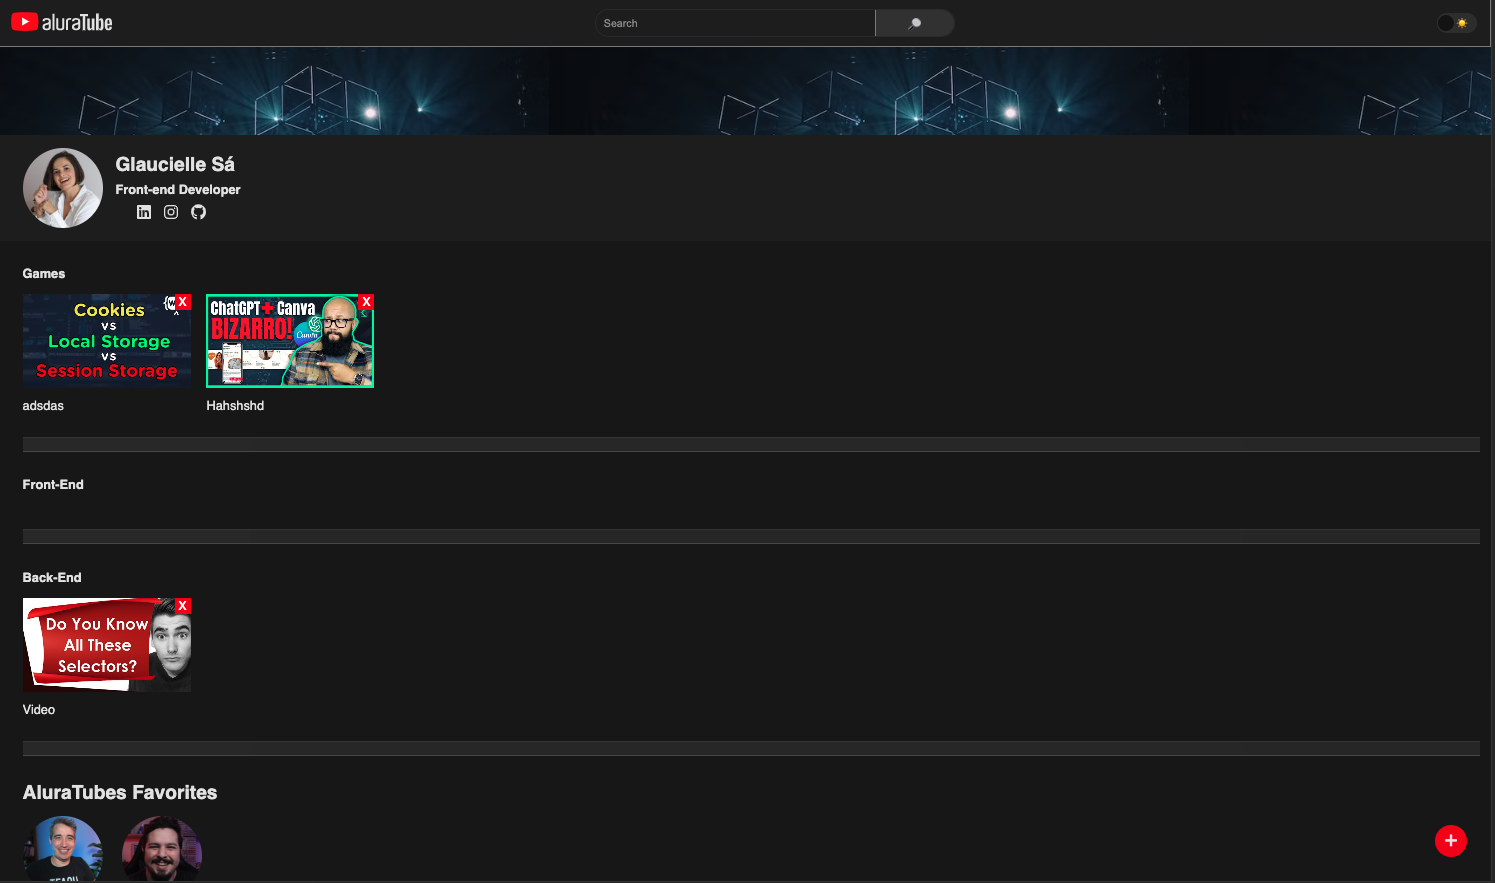
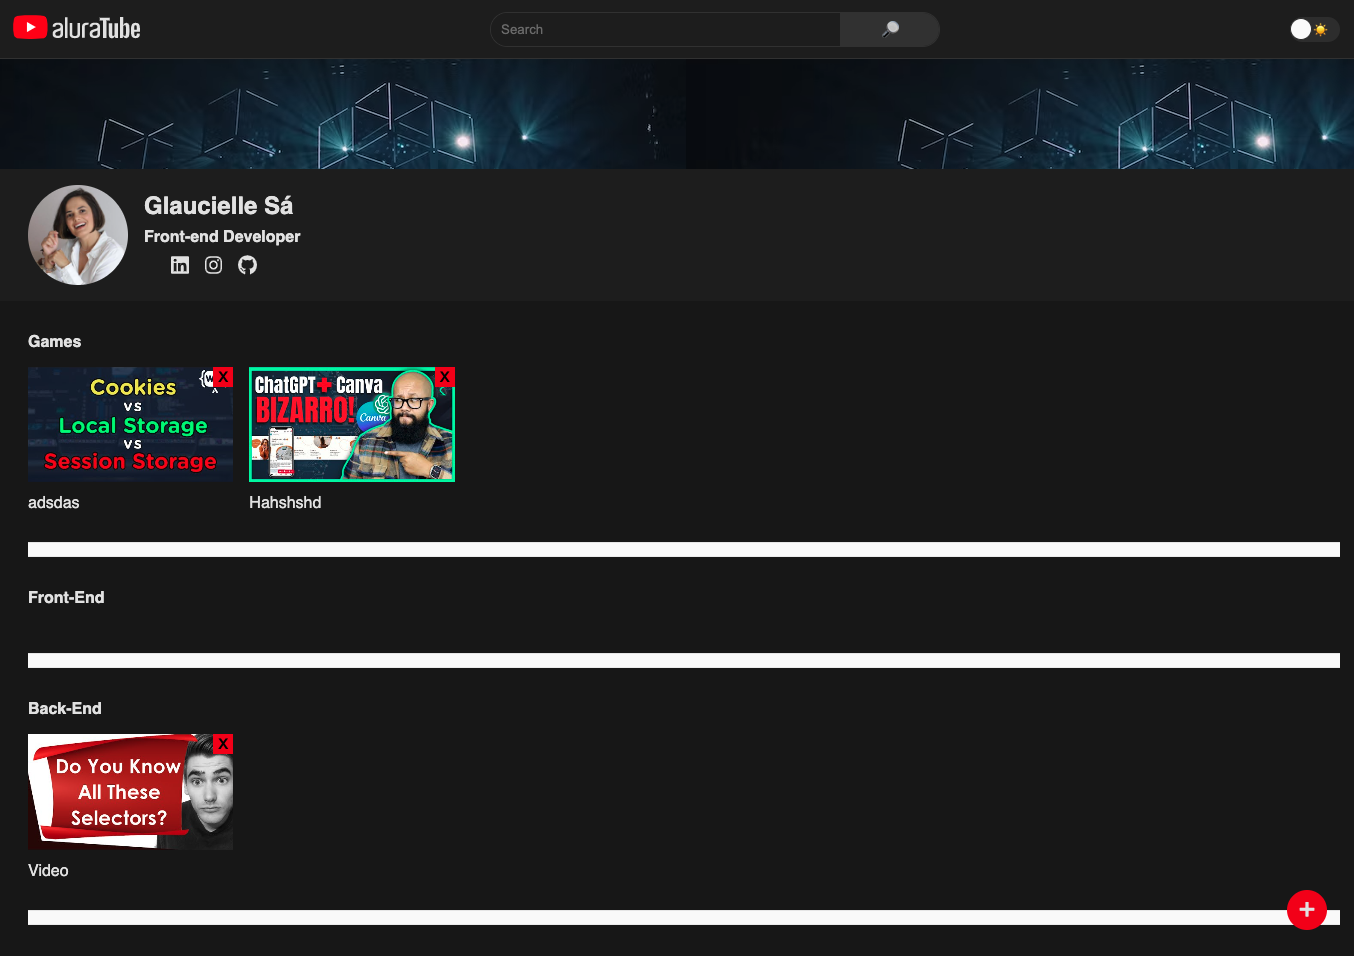
Change slide img when change mode

diff --git a/src/style.css b/src/style.css
@@ -80,6 +80,19 @@ body.dark-theme {
   --scroll-bar-color: hsl(var(--hue-color), 12%, 48%);
   --scroll-thumb-color: hsl(var(--hue-color), 12%, 36%);
 }
+body:not(dark-theme) img:not(dark-theme) {
+  display: none !important;
+}
+body:not(dark-theme) img.dark-theme {
+  display: block !important;
+}
+body.dark-theme img.dark-theme {
+  display: none !important;
+}
+
+body.dark-theme img:not(dark-theme) {
+  display: block !important;
+}
 /* ==== Button Dark/light ====*/
 .nav_btns {
   display: flex;
@@ -667,16 +680,17 @@ img {
   flex: 0 0 100%;
 }
 
-.portfolio_content > img {
+/* .portfolio_content > img {
   display: block;
   width: 100%;
   object-fit: fill;
   object-position: center;
   border-radius: 10px;
-}
+} */
 
 .portfolio_img {
-  width: 165px;
+  width: auto;
+  max-height: 260px;
   border-radius: 0.5rem;
   justify-self: center;
 }
@@ -849,7 +863,6 @@ img {
     display: flex;
     flex-direction: column;
   }
-
   .home_blob {
     width: 180px;
   }

diff --git a/index.html b/index.html
@@ -477,6 +477,11 @@
               <img
                 src="src/img/portfolio.png"
                 alt="portfolio's photo"
+                class="portfolio_img dark-theme"
+              />
+              <img
+                src="src/img/portfolioLight.png"
+                alt="portfolio's photo"
                 class="portfolio_img"
               />
               <div class="portfolio_data">
@@ -497,6 +502,11 @@
             <div class="portfolio_content grid">
               <img
                 src="src/img/aluraTube.png"
+                alt="aluraTube's photo"
+                class="portfolio_img dark-theme"
+              />
+              <img
+                src="src/img/aluraTubeLight.png"
                 alt="aluraTube's photo"
                 class="portfolio_img"
               />
